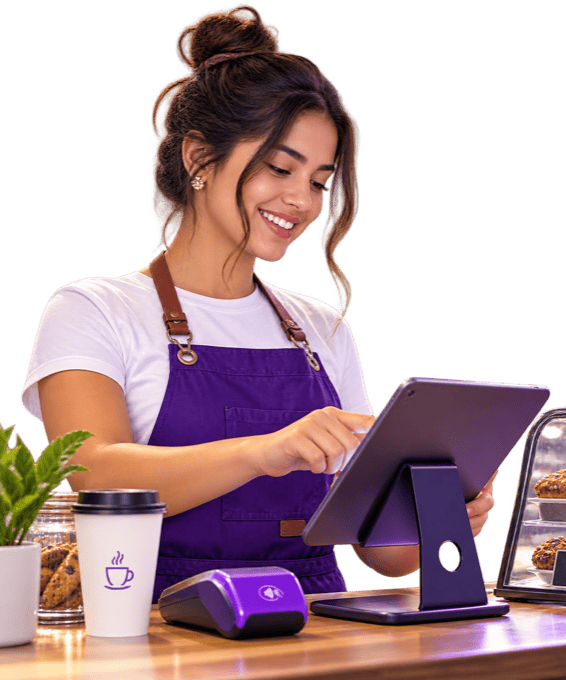
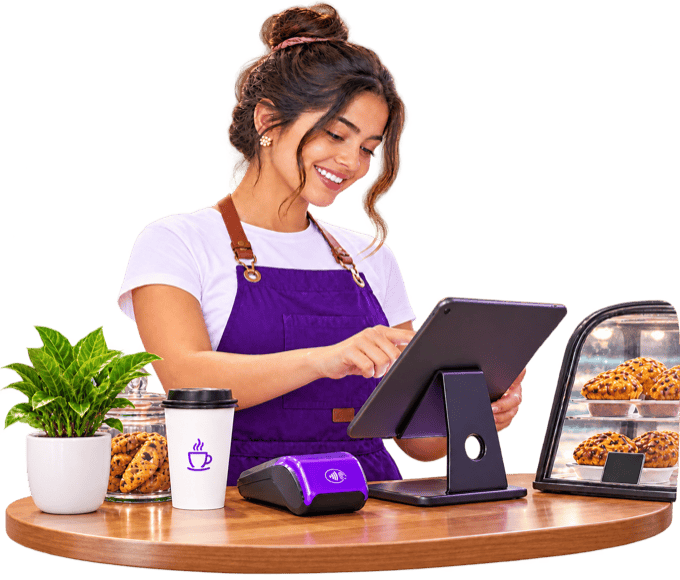
feat: Update POS section image

diff --git a/src/app/home/components/products/products.ts b/src/app/home/components/products/products.ts
@@ -29,9 +29,9 @@ export class Products {
       image: {
         png: '/images/pos-barista.png',
         webp: '/images/pos-barista.webp',
-        alt: 'Barista facturando una venta desde el POS de Siwina',
-        width: 566,
-        height: 680,
+        alt: 'Barista facturando una venta desde el POS de Siwina en una tablet con datáfono',
+        width: 680,
+        height: 580,
       },
       theme: 'light',
       imageFirst: false,

diff --git a/README.md b/README.md
@@ -130,7 +130,7 @@ alfa, ya redimensionados y comprimidos desde los originales del diseño:
 | -------------------------- | ----------- | ----- | --------------------------- |
 | `hero-composed.png`        | 1120 × 840  | 140 K | Hero (LCP, con `preload`)   |
 | `hero-composed-720.webp`   | 720 × 540   | 72 K  | Variante móvil del hero     |
-| `pos-barista.png`          | 566 × 680   | 68 K  | Producto 01 · POS DIAN      |
+| `pos-barista.png`          | 680 × 580   | 67 K  | Producto 01 · POS DIAN      |
 | `support-headphones.png`   | 680 × 453   | 40 K  | Producto 02 · Agentes de IA |
 | `team-group.png`           | 680 × 453   | 44 K  | Producto 03 · Ventas        |
 
